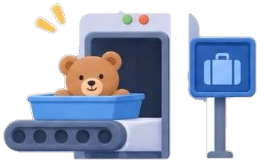
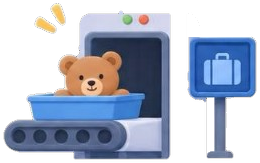
Вернуть белую заливку внутри домика и убрать обрезки у знака входного досмотра.
Серый выступ над табличкой и белая полоска у ножки больше не торчат.

Changed region(s): [[0.7077, 0.0613, 0.9538, 0.2454]]

diff --git a/index.html b/index.html
@@ -430,7 +430,7 @@
       <span class="name">На привокзальной площади</span>
     </button>
     <button class="cp" type="button" data-n="2" data-side="right">
-      <span class="mark" aria-hidden="true"><img src="assets/icon-2.png?v=6" alt=""></span>
+      <span class="mark" aria-hidden="true"><img src="assets/icon-2.png?v=7" alt=""></span>
       <span class="name">Входной и предполетный досмотр</span>
     </button>
     <button class="cp" type="button" data-n="3" data-side="left">
@@ -438,7 +438,7 @@
       <span class="name">Регистрация на рейс</span>
     </button>
     <button class="cp" type="button" data-n="4" data-side="right">
-      <span class="mark" aria-hidden="true"><img src="assets/icon-4.png?v=6" alt=""></span>
+      <span class="mark" aria-hidden="true"><img src="assets/icon-4.png?v=7" alt=""></span>
       <span class="name">Комната матери и ребенка</span>
     </button>
     <button class="cp" type="button" data-n="6" data-side="left">
